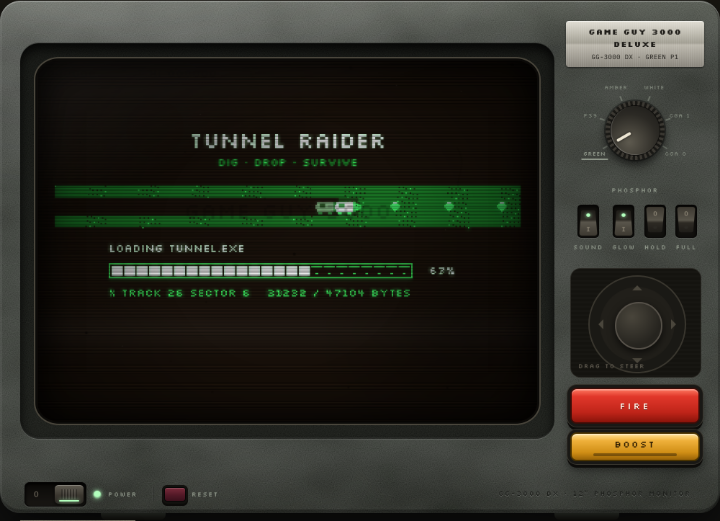
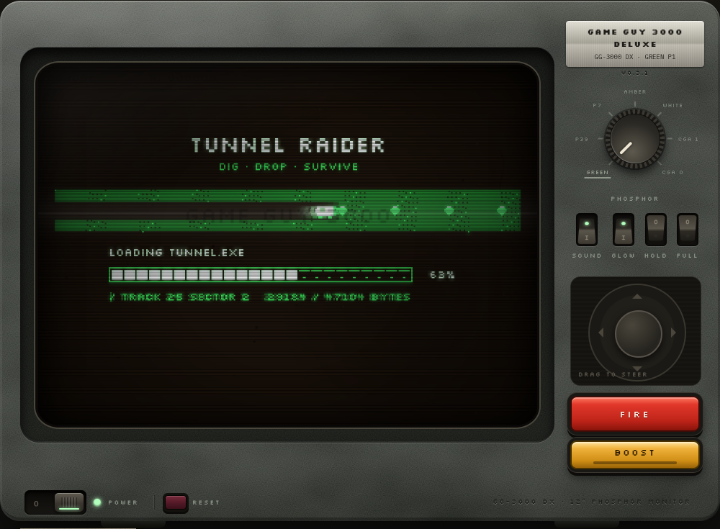
feat(console): show the release version under the nameplate (#25)
<!-- CURSOR_AGENT_PR_BODY_BEGIN -->
## Summary

```text
Nameplate
  np-badge    GAME GUY 3000 DELUXE
              GG-3000 DX · <phosphor>
  np-ver      v{package.json version}
```

The line under the plate reads `VERSION` from `package.json`
(`src/components/site.ts`), so the next release moves it. SELECT stays
hidden. On a sideways phone the plate sits on the right, between the
phosphor dial and FIRE / BOOST.

Closes #22

## Evidence

- **Before:** no version on the set, and the plate was missing on iPhone
landscape.
**After:** desk, iPhone landscape and iPhone portrait show the plate
with `v0.3.1` (the current `package.json`) fully on screen. Tall console
(iPad Mini landscape) and tablet portrait were checked as well. `npm
test` (149 tests) and `npm run build` passed. Share images were
regenerated because the plate changed.

![Desk](https://cursor.com/artifacts/c/art-15e42a3f-da0e-4b50-a1eb-f0c763255b82)
![iPhone
landscape](https://cursor.com/artifacts/c/art-e5c00a78-f77f-4a86-ac92-afc25ab13535)
![iPhone
portrait](https://cursor.com/artifacts/c/art-957bf5a2-c0cf-41b4-8e1a-6fe5039848c5)

## Merge Danger

**Door:** two-way

The version is baked in at build time from `package.json`. Reverting the
commit restores the previous plate.

**Blast Radius:** the set's chrome

Layouts other than phone landscape only gain the version line. Phone
landscape also gains the plate itself.

<!-- CURSOR_AGENT_PR_BODY_END -->

<div><a
[…]

diff --git a/src/styles/console.css b/src/styles/console.css
@@ -93,11 +93,13 @@ button:focus-visible{outline:2px solid var(--phos);outline-offset:2px}
   background:var(--grain),linear-gradient(180deg,color-mix(in srgb, var(--plastic-lo) 55%, #000),color-mix(in srgb, var(--plastic-lo) 75%, #000));background-size:160px 160px,auto;background-blend-mode:soft-light,normal;
   box-shadow:inset 0 8px 16px rgba(0,0,0,.8),inset 0 -2px 0 rgba(255,255,255,.07),0 1px 0 rgba(255,255,255,.14),0 -1px 0 rgba(0,0,0,.3)}
 .controls{grid-area:ctl;display:flex;flex-direction:column;align-items:center;gap:14px;min-width:0}
-.nameplate{width:100%;display:grid;gap:2px;justify-items:center;padding:7px 6px;border-radius:4px;color:#1f1d19;
+.nameplate{width:100%;display:grid;gap:4px;justify-items:center}
+.np-badge{width:100%;display:grid;gap:2px;justify-items:center;padding:7px 6px;border-radius:4px;color:#1f1d19;
   background:repeating-linear-gradient(90deg,rgba(255,255,255,.08) 0 1px,transparent 1px 3px),linear-gradient(180deg,#e2dfd5,#a3a094 48%,#bdb9ae 52%,#8a867d);
   box-shadow:inset 0 1px 0 rgba(255,255,255,.75),0 1px 2px rgba(0,0,0,.55)}
 .nameplate b{font-family:var(--display);font-size:11px;letter-spacing:.08em;font-weight:700}
-.nameplate span{font-family:var(--body);font-size:9px;letter-spacing:.04em;white-space:nowrap}
+.np-badge span{font-family:var(--body);font-size:9px;letter-spacing:.04em;white-space:nowrap}
+.np-ver{margin:0;font-family:var(--display);font-size:8px;letter-spacing:.18em;line-height:1;color:var(--plastic-lo);text-shadow:0 1px 0 rgba(255,255,255,.22),0 -1px 0 rgba(0,0,0,.25)}
 .dial-block{display:grid;justify-items:center;gap:2px}
 .dial-wrap{position:relative;width:148px;height:148px}
 .dial-labels{position:absolute;inset:0}
@@ -130,7 +132,7 @@ button:focus-visible{outline:2px solid var(--phos);outline-offset:2px}
 [data-layout="console"] .power{position:static;flex-wrap:wrap;justify-content:center;gap:8px}
 [data-layout="console"] .power > .ctl-label,[data-layout="console"] .reset-grp .ctl-label{display:none}
 [data-layout="console"] .reset-grp{margin:0;padding:0;border:0;box-shadow:none}
-/* sideways gamepad: switches and power top left over the joystick; dial top right over FIRE and BOOST */
+/* sideways gamepad: switches and power top left over the joystick; dial top right, the plate mid-right, FIRE and BOOST below it */
 [data-layout="console"] .controls{display:contents}
 [data-layout="console"] .rockers{grid-area:rock;align-self:end;justify-self:center}
 [data-layout="console"] .power{grid-area:pwr;align-self:start;justify-self:center;flex-wrap:nowrap}
@@ -143,9 +145,11 @@ button:focus-visible{outline:2px solid var(--phos);outline-offset:2px}
   :root[data-layout="console"] .tv-face{grid-template-columns:minmax(176px,1fr) auto minmax(176px,1fr);grid-template-rows:auto minmax(0,1fr) auto auto minmax(0,1fr) auto;
     grid-template-areas:"pwr screen plate" "stick screen ." "stick screen dial" "stick screen rock" "stick screen ." "stick screen fire"}
   /* the badge returns to the top right; the dial, full size, sits mid-right over the switches */
-  :root[data-layout="console"] .nameplate{display:grid;grid-area:plate;align-self:start;justify-self:center;width:calc(100% - 12px);box-sizing:border-box;padding:6px 8px}
-  :root[data-layout="console"] .nameplate b{font-size:10px}
-  :root[data-layout="console"] .nameplate span{font-size:8px}
+  :root[data-layout="console"] .nameplate{display:grid;grid-area:plate;align-self:start;justify-self:center;width:calc(100% - 12px);box-sizing:border-box;gap:3px;padding:0}
+  :root[data-layout="console"] .np-badge{padding:6px 8px}
+  :root[data-layout="console"] .nameplate b{font-size:10px;letter-spacing:.08em}
+  :root[data-layout="console"] .np-badge span{font-size:8px}
+  :root[data-layout="console"] .np-ver{font-size:8px;letter-spacing:.16em}
   :root[data-layout="console"] .dial-block{align-self:end}
   :root[data-layout="console"] .dial-wrap{width:148px;height:148px}
   :root[data-layout="console"] .dial{transform:none}
@@ -276,13 +280,18 @@ button:focus-visible{outline:2px solid var(--phos);outline-offset:2px}
 [data-layout="console"] .tv{filter:none}
 [data-layout="console"] .tv-face{box-sizing:border-box;--fp:10px;--sp:8px;--avail-h:calc(100vh - env(safe-area-inset-top, 0px) - env(safe-area-inset-bottom, 0px) - 12px);
   height:var(--avail-h);padding:var(--fp);border-radius:18px;gap:10px;align-items:center;
-  grid-template-columns:minmax(140px,1fr) auto minmax(140px,1fr);grid-template-rows:auto auto minmax(0,1fr);grid-template-areas:"rock screen dial" "pwr screen dial" "stick screen fire"}
+  grid-template-columns:minmax(140px,1fr) auto minmax(140px,1fr);grid-template-rows:auto auto minmax(0,1fr) auto;grid-template-areas:"rock screen dial" "pwr screen dial" "stick screen plate" "stick screen fire"}
 @supports (height:100dvh){[data-layout="console"] .tv-face{--avail-h:calc(100dvh - env(safe-area-inset-top, 0px) - env(safe-area-inset-bottom, 0px) - 12px)}}
 [data-layout="console"] .tube-surround{grid-area:screen;padding:var(--sp);border-radius:18px;
   align-self:stretch;width:min(calc((var(--avail-h) - 2 * var(--fp) - 2 * var(--sp)) * 1.75 + 2 * var(--sp)), calc(100vw - 2 * max(16px, env(safe-area-inset-left, 0px)) - 2 * var(--fp) - 320px))}
 [data-layout="console"] .screen{aspect-ratio:auto;width:100%;height:100%}
 [data-layout="console"] .controls{grid-area:ctl;flex-direction:column;flex-wrap:nowrap;gap:8px;align-self:start}
-[data-layout="console"] .nameplate,[data-layout="console"] .grille,[data-layout="console"] .tk,[data-layout="console"] .dial-block .ctl-label{display:none}
+[data-layout="console"] .grille,[data-layout="console"] .tk,[data-layout="console"] .dial-block .ctl-label{display:none}
+[data-layout="console"] .nameplate{display:grid;grid-area:plate;align-self:center;justify-self:center;width:calc(100% - 8px);box-sizing:border-box;gap:3px;padding:0}
+[data-layout="console"] .np-badge{padding:4px 5px}
+[data-layout="console"] .nameplate b{font-size:8px;letter-spacing:.04em}
+[data-layout="console"] .np-badge span{font-size:7px}
+[data-layout="console"] .np-ver{font-size:7px;letter-spacing:.12em}
 [data-layout="console"] .dial-wrap{width:104px;height:104px}
 [data-layout="console"] .dial{transform:scale(.78)}
 [data-layout="console"] .rockers{gap:8px}
@@ -306,8 +315,10 @@ button:focus-visible{outline:2px solid var(--phos);outline-offset:2px}
 [data-layout$="portrait"] .dial{transform:scale(.72)}
 [data-layout$="portrait"] .rockers{gap:8px}
 [data-layout$="portrait"] .rocker{height:38px}
-[data-layout$="portrait"] .nameplate{position:absolute;right:14px;bottom:13px;width:auto;flex-basis:auto;padding:4px 8px;display:flex;gap:6px;align-items:baseline}
-[data-layout$="portrait"] .nameplate b,[data-layout$="portrait"] .nameplate span{font-size:8px}
+[data-layout$="portrait"] .nameplate{position:absolute;right:14px;bottom:13px;width:auto;flex-basis:auto;padding:0;display:grid;justify-items:center;gap:3px}
+[data-layout$="portrait"] .np-badge{width:auto;display:flex;gap:6px;align-items:baseline;padding:4px 8px}
+[data-layout$="portrait"] .nameplate b,[data-layout$="portrait"] .np-badge span{font-size:8px}
+[data-layout$="portrait"] .np-ver{font-size:7px;letter-spacing:.12em}
 [data-layout$="portrait"] .stickzone{height:136px}
 [data-layout$="portrait"] .fire{height:48px}
 [data-layout$="portrait"] .keyrow{flex-direction:row}
@@ -330,7 +341,7 @@ button:focus-visible{outline:2px solid var(--phos);outline-offset:2px}
 [data-layout="phone-portrait"] .boost{height:44px}
 [data-layout="phone-portrait"] .power{bottom:9px}
 [data-layout="phone-portrait"] .nameplate{bottom:18px}
-[data-layout="phone-portrait"] .nameplate span{display:none}
+[data-layout="phone-portrait"] #plate{display:none}
 /* upright = handheld: joystick on the left, the two keys stacked on the right */
 [data-layout$="portrait"] .pad{flex-direction:row;align-items:stretch;gap:14px}
 [data-layout$="portrait"] .stickzone{flex:1.25 1 0;width:auto;height:156px}
@@ -476,7 +487,7 @@ h1 .h-dx{color:#cfc3a3}
 [data-layout="console"] .power{gap:6px}
 [data-layout="console"] .resetbtn{width:24px;height:18px}
 [data-layout="console"] .powerrock{width:72px}
-/* the nameplate: centred over two lines on the set; just GAME GUY on an upright phone, where SELECT needs the room */
+/* the nameplate: badge over the release version. Upright phones keep the full name while SELECT is hidden */
 .nameplate b{text-align:center}
 .nameplate b .np-rest{font:inherit;letter-spacing:inherit;white-space:normal}
 /* SELECT is hidden for now (it does what RESET does until there's more to choose from) */

diff --git a/tests/unit/nameplate.test.ts b/tests/unit/nameplate.test.ts
@@ -1,0 +1,23 @@
+import { createElement } from 'react';
+import { renderToStaticMarkup } from 'react-dom/server';
+import { readFileSync } from 'node:fs';
+import { dirname, join } from 'node:path';
+import { fileURLToPath } from 'node:url';
+import { describe, expect, it } from 'vitest';
+import { Nameplate } from '../../src/components/Nameplate';
+import { VERSION } from '../../src/components/site';
+
+const pkg = JSON.parse(readFileSync(join(dirname(fileURLToPath(import.meta.url)), '../../package.json'), 'utf8'));
+
+describe('nameplate version', () => {
+  it('reads the release from package.json', () => {
+    expect(VERSION).toBe(pkg.version);
+  });
+
+  it('stamps that version on its own line under the plate', () => {
+    const html = renderToStaticMarkup(createElement(Nameplate));
+    expect(html).toContain('class="np-badge"');
+    expect(html).toContain(`class="np-ver">v${pkg.version}</small>`);
+    expect(html.indexOf('np-badge')).toBeLessThan(html.indexOf('np-ver'));
+  });
+});

diff --git a/src/components/Nameplate.tsx b/src/components/Nameplate.tsx
@@ -1,11 +1,14 @@
-import { MODEL } from './site';
+import { MODEL, VERSION } from './site';
 
-/** The badge on the set. The console rewrites the second line with the phosphor in use. */
+/** The badge on the set. The console rewrites the phosphor line; the version follows package.json. */
 export function Nameplate(){
   return (
     <div className="nameplate">
-      <b>GAME GUY<span className="np-rest"> 3000 DELUXE</span></b>
-      <span id="plate">{MODEL} · GREEN P1</span>
+      <div className="np-badge">
+        <b>GAME GUY<span className="np-rest"> 3000 DELUXE</span></b>
+        <span id="plate">{MODEL} · GREEN P1</span>
+      </div>
+      <small className="np-ver">{`v${VERSION}`}</small>
     </div>
   );
 }

diff --git a/src/components/site.ts b/src/components/site.ts
@@ -1,4 +1,8 @@
+import { version } from '../../package.json';
+
 /** Things several components and pages share. */
 export const REPO_URL = 'https://github.com/wiiiimm/game-guy';
 export const REPO_LABEL = 'github.com/wiiiimm/game-guy';
 export const MODEL = 'GG-3000 DX';
+/** The release stamped under the nameplate. package.json is the source the release PR bumps. */
+export const VERSION = version;

diff --git a/AGENTS.md b/AGENTS.md
@@ -77,7 +77,7 @@ Requirements 1 to 10 below are built: the console boots into a disk menu with fo
 - It needs a place in every layout (`desk`, `console`, tall console, `phone-portrait`, `tablet-portrait`), sitting with RESET beside POWER.
 - **RESET vs SELECT:** RESET reboots the whole console (BIOS, then the loader); SELECT just swaps the game, through the loader.
 - Add a keyboard shortcut for it, and an analytics event (for example `select` with the game left and its level).
-- **Status:** hidden. `PowerPanel` in `src/components/PowerPanel.tsx` takes `showSelect`; pass it from `ConsoleSet` to bring the button back (and add SELECT back to the console strings). The nameplate on an upright phone shows the full name while SELECT is hidden; with SELECT back it may need shortening to GAME GUY again (`.np-rest`).
+- **Status:** hidden. `PowerPanel` in `src/components/PowerPanel.tsx` takes `showSelect`; pass it from `ConsoleSet` to bring the button back (and add SELECT back to the console strings). The nameplate on an upright phone shows the full name while SELECT is hidden; with SELECT back it may need shortening to GAME GUY again (`.np-rest`). Every layout stamps the release version (`VERSION` in `src/components/site.ts`, read from `package.json`) on its own line under the plate, including phone landscape, where the plate sits on the right in the middle.
 
 ### 8. Dino Run, with its own high-score table
 

diff --git a/README.md b/README.md
@@ -27,6 +27,7 @@ Each game also has its own page that boots straight into its disk: `/tunnel-raid
 
 ## The console
 
+- **Nameplate:** Game Guy and the phosphor in use, with the release version stamped on its own line under the plate. The version is the one in `package.json`, so it moves with the release.
 - **POWER** switches the set on (or press <kbd>Enter</kbd>). It runs a memory test, beeps, spins up the drive and boots the disk menu.
 - **Disk menu:**
   - **Choose a game:** stick, arrow keys or <kbd>1</kbd>–<kbd>9</kbd>.
